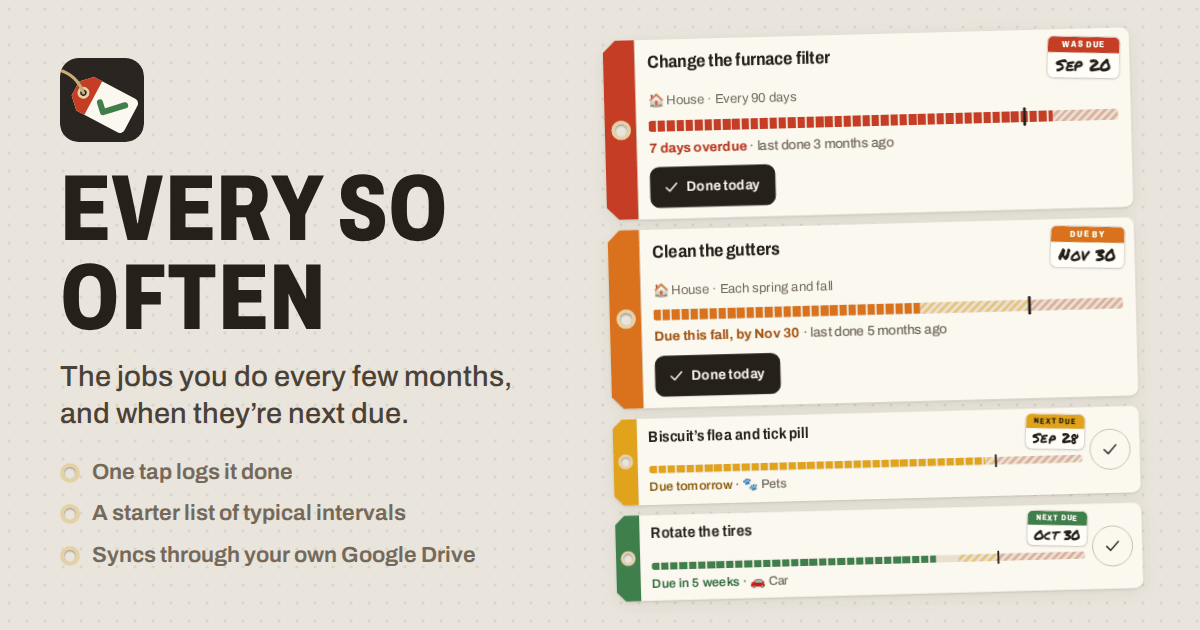
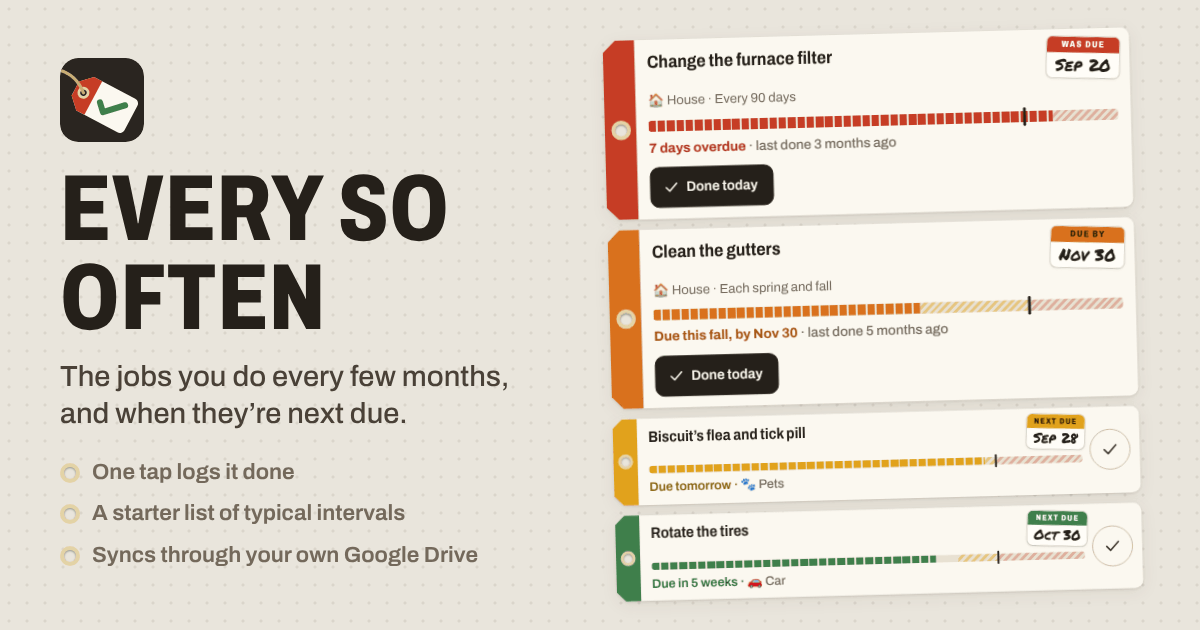
Make every sticker label and group tape readable, and the same in every view
A tag's label colour came from whichever group it was in: an orange tag's "Due by" was dark in the due-soon group, the card colour when grouped by area (3.1:1) and white on its own page (3.3:1), and in dark mode the white labels on red and green read at 3.7:1 and 2.7:1. Each tag state and group now sets its own label colour: dark on amber and orange in both schemes, white on red and green in the light one (5.1:1 and 4.8:1), and dark on red and green in the dark (4.8:1 and 6.7:1). test/e2e.mjs checks every label and tape at 4.5:1 or better, light and dark, grouped both ways and on each thing's page, and that each state's label is one colour throughout. The dark laptop screenshot and the link preview are redrawn, since their labels changed. This answers the question on label contrast.

Claude-Session: https://claude.ai/code/session_01N3tHmrVtD9q2Zcak1ErX34

diff --git a/css/app.css b/css/app.css
@@ -203,9 +203,9 @@ h1, h2, h3 { margin: 0; text-wrap: balance; }
 .fold .n { font-weight: 700; color: var(--muted); font-size: 15px; }
 .fold .chev { width: 8px; height: 8px; border-right: 2px solid var(--muted); border-bottom: 2px solid var(--muted); transform: rotate(45deg) translate(-2px, -2px); transition: transform .15s; }
 .fold[aria-expanded="false"] .chev { transform: rotate(-45deg); }
-.g-overdue { --band: var(--red); }
+.g-overdue { --band: var(--red); --band-on: #fff; }
 .g-soon { --band: var(--amber); --band-on: #2a1e05; }
-.g-later { --band: var(--green); }
+.g-later { --band: var(--green); --band-on: #fff; }
 .g-area { --band: var(--ink); --band-on: var(--card); }
 .g-area .tape { letter-spacing: .1em; }
 .g-area .in-area { display: none; }
@@ -222,10 +222,15 @@ h1, h2, h3 { margin: 0; text-wrap: balance; }
   position: relative; display: flex; min-width: 0;
   filter: drop-shadow(0 1px 1px var(--shadow)) drop-shadow(0 4px 8px color-mix(in srgb, var(--shadow) 55%, transparent));
 }
-.s-overdue { --band: var(--red); --band-ink: var(--red-ink); }
-.s-due { --band: var(--orange); --band-ink: var(--orange-ink); }
+/* Each state sets its own label colour (--band-on), so a tag's sticker reads the same in any group. */
+.s-overdue { --band: var(--red); --band-ink: var(--red-ink); --band-on: #fff; }
+.s-due { --band: var(--orange); --band-ink: var(--orange-ink); --band-on: #2a1e05; }
 .s-soon { --band: var(--amber); --band-ink: var(--amber-ink); --band-on: #2a1e05; }
-.s-later { --band: var(--green); --band-ink: var(--green-ink); }
+.s-later { --band: var(--green); --band-ink: var(--green-ink); --band-on: #fff; }
+/* The red and green are lighter in the dark, so the labels on them are dark there. */
+@media (prefers-color-scheme: dark) {
+  .g-overdue, .s-overdue, .g-later, .s-later { --band-on: #16171a; }
+}
 .tag-end {
   flex: none; width: 34px; display: grid; place-items: center;
   background: var(--band);

diff --git a/README.md b/README.md
@@ -69,4 +69,4 @@ To put it online with GitHub Pages: **Settings → Pages → Build and deploymen
 - `fonts/`: Archivo (SIL Open Font License) and Permanent Marker (Apache License 2.0), served from here so nothing loads from elsewhere.
 - `sw.js`: keeps a copy for using offline.
 - `scripts/build.mjs`: the single-file copy.
-- `test/unit.test.mjs` checks the date maths (month ends, leap days, seasons, time zones and clock changes) and the merge, including that it comes out the same in any order across hundreds of random lists. `test/e2e.mjs` sets up a list from the starter list, logs jobs, keeps notes, adds them to a calendar, backs up, looks at the sample and checks it works offline. Another phone, with Reduce Motion on, checks double taps, going back and the keyboard. Then three devices save through a stand-in Google Drive (`test/fake-google.mjs`): turning it on, a second device joining, both editing different things, both editing the same thing, a deletion, an expired sign-in, a sign-in from another project, stopping, a file in Drive that isn’t readable, and erasing while a sync is under way. Set `E2E_DATE` (say `E2E_DATE=2028-02-29T09:00 npm test`) to run it all on another day.
+- `test/unit.test.mjs` checks the date maths (month ends, leap days, seasons, time zones and clock changes) and the merge, including that it comes out the same in any order across hundreds of random lists. `test/e2e.mjs` sets up a list from the starter list, logs jobs, keeps notes, adds them to a calendar, backs up, looks at the sample and checks it works offline. Another phone, with Reduce Motion on, checks double taps, going back and the keyboard. The labels on the tags and groups are checked for contrast, light and dark, in every view. Then three devices save through a stand-in Google Drive (`test/fake-google.mjs`): turning it on, a second device joining, both editing different things, both editing the same thing, a deletion, an expired sign-in, a sign-in from another project, stopping, a file in Drive that isn’t readable, and erasing while a sync is under way. Set `E2E_DATE` (say `E2E_DATE=2028-02-29T09:00 npm test`) to run it all on another day.
